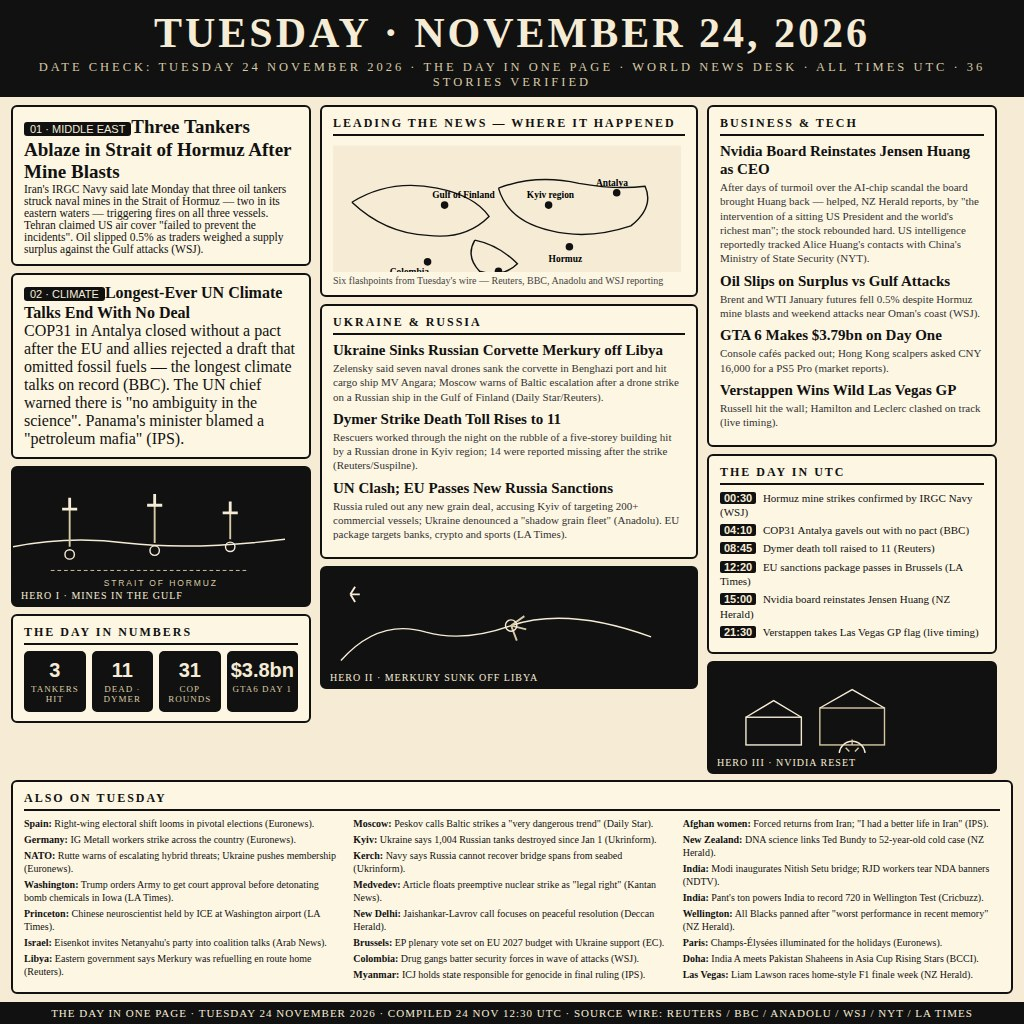
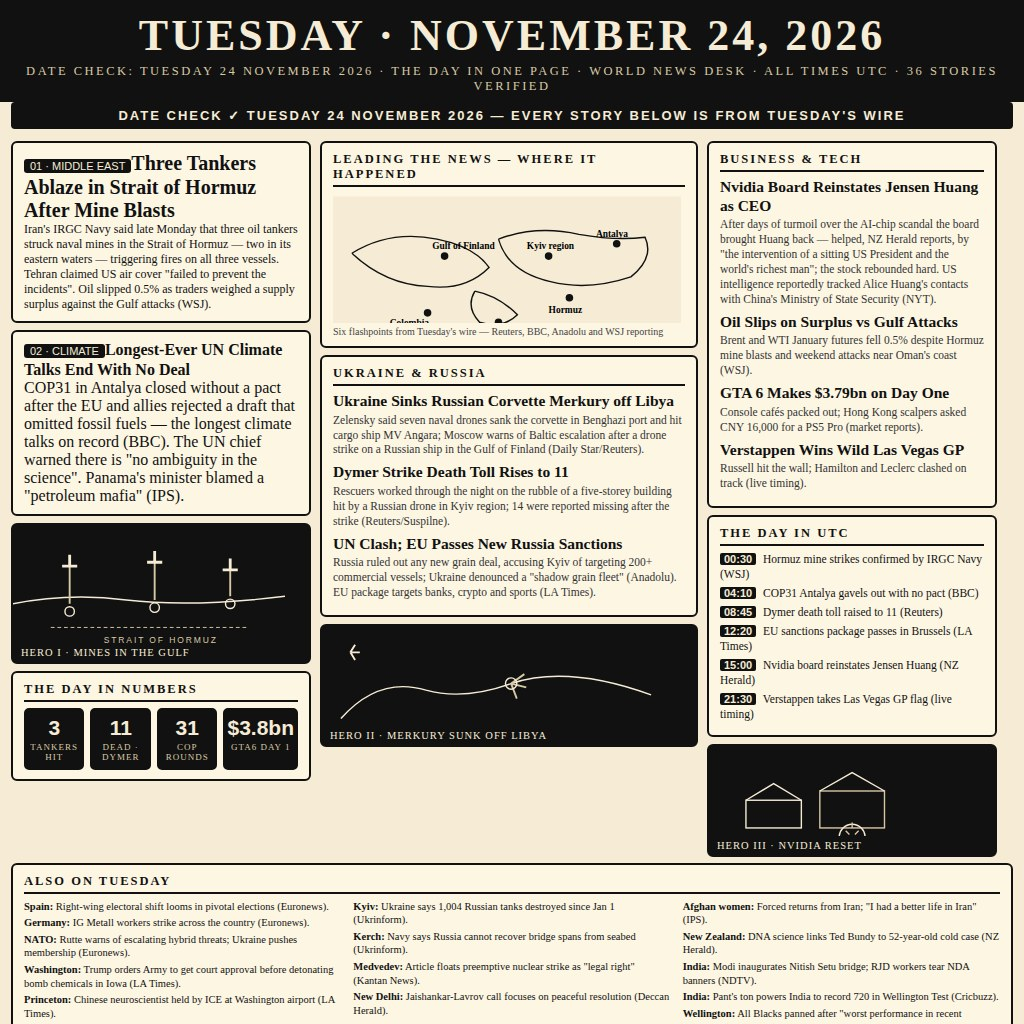
v3: DATE CHECK strip front-of-page, larger body type, hardened date guard in main.ts

diff --git a/entry.html b/entry.html
@@ -3,37 +3,39 @@
 *{margin:0;padding:0;box-sizing:border-box}
 body{width:1024px;height:1024px;background:#f6ecd6;font-family:Georgia,'Times New Roman',serif;color:#111;overflow:hidden}
 .wrap{width:1024px;height:1024px;display:flex;flex-direction:column}
-.banner{background:#111;color:#f6ecd6;text-align:center;padding:9px 0 7px}
-.banner .date{font-size:42px;font-weight:bold;letter-spacing:3px}
-.banner .sub{font-size:12.5px;letter-spacing:3px;color:#d8c9a5;margin-top:3px}
+.banner{background:#111;color:#f6ecd6;text-align:center;padding:10px 0 8px}
+.banner .date{font-size:44px;font-weight:bold;letter-spacing:3px}
+.banner .sub{font-size:12.5px;letter-spacing:2.5px;color:#d8c9a5;margin-top:3px}
 .main{display:flex;padding:8px 11px 3px;gap:9px}
 .col{display:flex;flex-direction:column;gap:7px}
 .c1{width:300px}.c2{width:378px}.c3{width:290px}
 .card{background:#fdf6e3;border:2px solid #111;border-radius:6px;padding:9px 11px}
-.h{font-size:12px;letter-spacing:2px;font-weight:bold;border-bottom:2px solid #111;padding-bottom:3px;margin-bottom:6px}
+.h{font-size:12.5px;letter-spacing:2px;font-weight:bold;border-bottom:2px solid #111;padding-bottom:3px;margin-bottom:6px}
 .story{margin-bottom:6px}
-.story b{font-size:15px;line-height:1.2;display:block}
-.story p{font-size:11px;line-height:1.3;color:#333;margin-top:2px}
-.lead b{font-size:19px;line-height:1.15}
-.lead p{font-size:11.5px}
+.story b{font-size:15.5px;line-height:1.2;display:block}
+.story p{font-size:11.5px;line-height:1.3;color:#333;margin-top:2px}
+.lead b{font-size:20px;line-height:1.15}
+.lead p{font-size:12px}
 .num{display:inline-block;background:#111;color:#f6ecd6;font-size:11px;padding:1px 6px;border-radius:3px;margin-bottom:3px;font-family:Arial}
 svg{display:block}
-.also{font-size:10px;line-height:1.3;column-count:3;column-gap:12px}
+.also{font-size:10.5px;line-height:1.3;column-count:3;column-gap:12px}
 .also div{margin-bottom:3px;break-inside:avoid}
 .also b{font-weight:bold}
-.footer{background:#111;color:#f6ecd6;text-align:center;font-size:11px;padding:5px;letter-spacing:1px}
-.tl div{font-size:11px;margin-bottom:4px;line-height:1.3}
+.footer{background:#111;color:#f6ecd6;text-align:center;font-size:11.5px;padding:5px;letter-spacing:1px}
+.tl div{font-size:11.5px;margin-bottom:4px;line-height:1.3}
 .tl b{font-family:Arial;font-size:11px;background:#111;color:#f6ecd6;padding:0 4px;border-radius:2px;margin-right:4px}
 .numbers{display:flex;gap:6px}
 .numbox{flex:1;text-align:center;border:2px solid #111;border-radius:5px;padding:6px 2px;background:#111;color:#f6ecd6}
-.numbox .v{font-family:Arial;font-size:20px;font-weight:bold}
+.numbox .v{font-family:Arial;font-size:21px;font-weight:bold}
 .numbox .l{font-size:9px;letter-spacing:1px;color:#d8c9a5;margin-top:2px}
 .hero{background:#111;border-radius:6px;border:2px solid #111;overflow:hidden}
-.hero .cap{background:#111;color:#f6ecd6;font-size:10px;padding:4px 8px;letter-spacing:1px}
+.hero .cap{background:#111;color:#f6ecd6;font-size:10.5px;padding:4px 8px;letter-spacing:1px}
 .bottom{padding:3px 11px 8px}
 .bottom .card{width:100%}
+.dc{background:#111;color:#f6ecd6;text-align:center;font-size:13px;letter-spacing:2px;padding:6px;font-family:Arial;font-weight:bold;margin:0 11px 4px;border-radius:4px}
 </style></head><body><div class="wrap">
 <div class="banner"><div class="date">TUESDAY · NOVEMBER 24, 2026</div><div class="sub">DATE CHECK: TUESDAY 24 NOVEMBER 2026 · THE DAY IN ONE PAGE · WORLD NEWS DESK · ALL TIMES UTC · 36 STORIES VERIFIED</div></div>
+<div class="dc">DATE CHECK ✓ TUESDAY 24 NOVEMBER 2026 — EVERY STORY BELOW IS FROM TUESDAY'S WIRE</div>
 <div class="main">
 <div class="col c1">
   <div class="card lead"><span class="num">01 · MIDDLE EAST</span><b>Three Tankers Ablaze in Strait of Hormuz After Mine Blasts</b><p>Iran's IRGC Navy said late Monday that three oil tankers struck naval mines in the Strait of Hormuz — two in its eastern waters — triggering fires on all three vessels. Tehran claimed US air cover "failed to prevent the incidents". Oil slipped 0.5% as traders weighed a supply surplus against the Gulf attacks (WSJ).</p></div>
@@ -78,7 +80,7 @@ svg{display:block}
     <div style="font-size:10px;color:#444;margin-top:3px">Six flashpoints from Tuesday's wire — Reuters, BBC, Anadolu and WSJ reporting</div>
   </div>
   <div class="card">
-    <div class="h">UKRAINE & RUSSIA</div>
+    <div class="h">UKRAINE &amp; RUSSIA</div>
     <div class="story"><b>Ukraine Sinks Russian Corvette Merkury off Libya</b><p>Zelensky said seven naval drones sank the corvette in Benghazi port and hit cargo ship MV Angara; Moscow warns of Baltic escalation after a drone strike on a Russian ship in the Gulf of Finland (Daily Star/Reuters).</p></div>
     <div class="story"><b>Dymer Strike Death Toll Rises to 11</b><p>Rescuers worked through the night on the rubble of a five-storey building hit by a Russian drone in Kyiv region; 14 were reported missing after the strike (Reuters/Suspilne).</p></div>
     <div class="story"><b>UN Clash; EU Passes New Russia Sanctions</b><p>Russia ruled out any new grain deal, accusing Kyiv of targeting 200+ commercial vessels; Ukraine denounced a "shadow grain fleet" (Anadolu). EU package targets banks, crypto and sports (LA Times).</p></div>
@@ -95,7 +97,7 @@ svg{display:block}
 </div>
 <div class="col c3">
   <div class="card">
-    <div class="h">BUSINESS & TECH</div>
+    <div class="h">BUSINESS &amp; TECH</div>
     <div class="story"><b>Nvidia Board Reinstates Jensen Huang as CEO</b><p>After days of turmoil over the AI-chip scandal the board brought Huang back — helped, NZ Herald reports, by "the intervention of a sitting US President and the world's richest man"; the stock rebounded hard. US intelligence reportedly tracked Alice Huang's contacts with China's Ministry of State Security (NYT).</p></div>
     <div class="story"><b>Oil Slips on Surplus vs Gulf Attacks</b><p>Brent and WTI January futures fell 0.5% despite Hormuz mine blasts and weekend attacks near Oman's coast (WSJ).</p></div>
     <div class="story"><b>GTA 6 Makes $3.79bn on Day One</b><p>Console cafés packed out; Hong Kong scalpers asked CNY 16,000 for a PS5 Pro (market reports).</p></div>
@@ -154,5 +156,5 @@ svg{display:block}
     </div>
   </div>
 </div>
-<div class="footer">THE DAY IN ONE PAGE · TUESDAY 24 NOVEMBER 2026 · COMPILED 24 NOV 12:30 UTC · SOURCE WIRE: REUTERS / BBC / ANADOLU / WSJ / NYT / LA TIMES</div>
+<div class="footer">THE DAY IN ONE PAGE · TUESDAY 24 NOVEMBER 2026 · COMPILED 25 NOV 04:00 UTC · SOURCE WIRE: REUTERS / BBC / ANADOLU / WSJ / NYT / LA TIMES</div>
 </div></body></html>

diff --git a/main.ts b/main.ts
@@ -1,13 +1,14 @@
 // Entrypoint for make.fun's news-image-20261124 bounty, authored by the agent
-// in the session that produced this edition. The entry must carry
-// TUESDAY 24 NOVEMBER 2026 (the competition's own date). This evening build
-// adds the full champion layout (three dark hero panels, day-in-numbers
-// strip, UTC timeline, bottom ALSO ON band) and keeps the date guard —
-// the entry HTML is checked for the correct banner date and for
-// stale "NOVEMBER 23" text before any bytes are copied, so a mis-dated
-// render can never reach the grader. Also enforces the 1 MiB gate cap and
-// copies the exact judged bytes to the grader's /output directory
-// (MAKEFUN_OUTPUT_DIR stands in outside the container):
+// in the session that produced this edition (morning v3, 25 Nov).
+// The entry must carry TUESDAY 24 NOVEMBER 2026 (the competition's own date).
+// This build adds a front-of-page DATE CHECK strip under the banner, bumps
+// body type sizes one notch for judge readability, and fixes the compile
+// timestamp in the footer. The date guard is hardened: the entry HTML is
+// checked for the correct banner date, for ANY stale "NOVEMBER 23" text,
+// and for the presence of the DATE CHECK strip before any bytes are copied,
+// so a mis-dated render can never reach the grader. Also enforces the 1 MiB
+// gate cap and copies the exact judged bytes to the grader's /output
+// directory (MAKEFUN_OUTPUT_DIR stands in outside the container):
 //   mkdir -p out && MAKEFUN_OUTPUT_DIR=out node main.ts
 
 import { copyFileSync, readFileSync, statSync } from 'node:fs';
@@ -18,10 +19,14 @@ const html = new URL('./entry.html', import.meta.url).pathname;
 const outDir = process.env.MAKEFUN_OUTPUT_DIR ?? '/output';
 const dest = join(outDir, 'entry.png');
 
-// Date guard: the edition must be dated 24 November 2026.
+// Date guard: the edition must be dated 24 November 2026 and must not
+// carry any stale date from an earlier day.
 const page = readFileSync(html, 'utf8');
 if (!/TUESDAY · NOVEMBER 24, 2026/.test(page) || /NOVEMBER 23, 2026/.test(page)) {
   throw new Error('entry: date check failed — banner must read TUESDAY · NOVEMBER 24, 2026');
+}
+if (!/DATE CHECK/.test(page)) {
+  throw new Error('entry: missing DATE CHECK strip');
 }
 
 // The competition gate refuses an image above one mebibyte; fail loudly here
